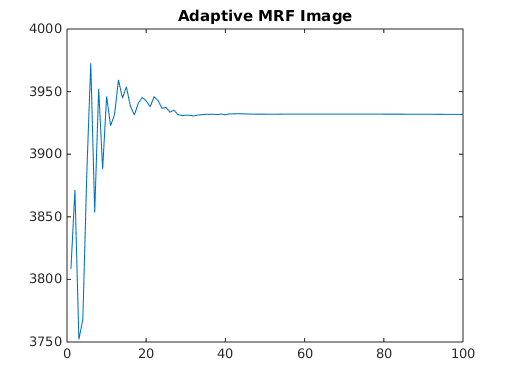
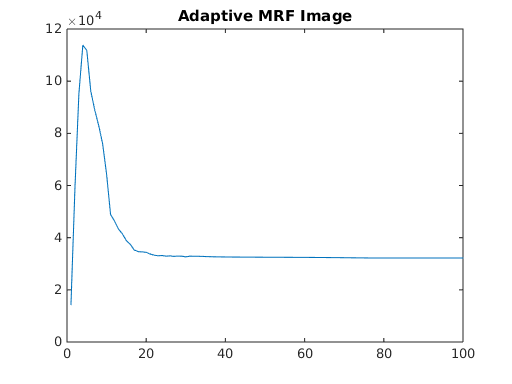
Add q2 report final

diff --git a/120050087_120050041_13D070003_assignment3/2/report/mainScript.html b/120050087_120050041_13D070003_assignment3/2/report/mainScript.html
@@ -75,8 +75,8 @@ min_rrmse = 10000000;
 best_estimate = 0;
 figure; imshow(abs(ifft2(imageKspaceData))); title(<span class="string">'Inverse Fourier-kspaceData'</span>);
 </pre><img vspace="5" hspace="5" src="mainScript_01.png" alt=""> <h2>Quadratic Prior 1<a name="2"></a></h2><pre class="codeinput">algorithm = 1;
-best_alpha = 0.0001;
-best_gamma = 0.00;
+best_alpha = 0.0002;
+best_gamma = 0;
 [estimate, series] = applyGradientDescent(imageKspaceData, algorithm, best_alpha ,best_gamma, imageKspaceMask);
 display(<span class="string">'Quadratic Prior'</span>);
 display(strcat( [<span class="string">'Best alpha :'</span> num2str(best_alpha)] ));
@@ -84,11 +84,11 @@ display(strcat( [<span class="string">'Best gamma :'</span> num2str(best_gamma)]
 figure; imshow(abs(estimate)); title(<span class="string">'Quadratic Prior Reconstructed Image'</span>);
 figure; plot(1:100, series); title(<span class="string">'Quadratic MRF Image'</span>);
 </pre><pre class="codeoutput">Quadratic Prior
-Best alpha :0.0001
+Best alpha :0.0002
 Best gamma :0
 </pre><img vspace="5" hspace="5" src="mainScript_02.png" alt=""> <img vspace="5" hspace="5" src="mainScript_03.png" alt=""> <h2>Huber Prior 2<a name="3"></a></h2><pre class="codeinput">algorithm = 2;
-best_alpha = 0.000001;
-best_gamma = 0.012;
+best_alpha = 0.00001;
+best_gamma = 0.015;
 [estimate, series] = applyGradientDescent(imageKspaceData, algorithm, best_alpha , best_gamma , imageKspaceMask);
 display(<span class="string">'Huber Prior'</span>);
 display(strcat( [<span class="string">'Best alpha :'</span> num2str(best_alpha)] ));
@@ -96,11 +96,11 @@ display(strcat( [<span class="string">'Best gamma:'</span> num2str(best_gamma)] 
 figure; imshow(abs(estimate)); title(<span class="string">'Huber Prior Reconstructed Image'</span>);
 figure; plot(1:100, series); title(<span class="string">'Huber MRF Image'</span>);
 </pre><pre class="codeoutput">Huber Prior
-Best alpha :1e-06
-Best gamma:0.012
+Best alpha :1e-05
+Best gamma:0.015
 </pre><img vspace="5" hspace="5" src="mainScript_04.png" alt=""> <img vspace="5" hspace="5" src="mainScript_05.png" alt=""> <h2>Adaptive Prior 3<a name="4"></a></h2><pre class="codeinput">algorithm = 3;
 best_alpha = 0.00001;
-best_gamma = 0.09;
+best_gamma = 0.08;
 [estimate, series] = applyGradientDescent(imageKspaceData, algorithm, best_alpha , best_gamma , imageKspaceMask);
 display(<span class="string">'Adaptive Prior'</span>);
 display(strcat( [<span class="string">'Best alpha :'</span> num2str(best_alpha)] ));
@@ -109,7 +109,7 @@ figure; imshow(abs(estimate)); title(<span class="string">'Adaptive Prior Recons
 figure; plot(1:100, series); title(<span class="string">'Adaptive MRF Image'</span>);
 </pre><pre class="codeoutput">Adaptive Prior
 Best alpha :1e-05
-Best gamma:0.09
+Best gamma:0.08
 </pre><img vspace="5" hspace="5" src="mainScript_06.png" alt=""> <img vspace="5" hspace="5" src="mainScript_07.png" alt=""> <p class="footer"><br><a href="http://www.mathworks.com/products/matlab/">Published with MATLAB&reg; R2014b</a><br></p></div><!--
 ##### SOURCE BEGIN #####
 addpath 'mrf';
@@ -123,8 +123,8 @@ figure; imshow(abs(ifft2(imageKspaceData))); title('Inverse Fourier-kspaceData')
 
 %% Quadratic Prior 1
 algorithm = 1;
-best_alpha = 0.0001;
-best_gamma = 0.00;
+best_alpha = 0.0002;
+best_gamma = 0;
 [estimate, series] = applyGradientDescent(imageKspaceData, algorithm, best_alpha ,best_gamma, imageKspaceMask);
 display('Quadratic Prior');
 display(strcat( ['Best alpha :' num2str(best_alpha)] )); 
@@ -134,8 +134,8 @@ figure; plot(1:100, series); title('Quadratic MRF Image');
 
 %% Huber Prior 2 
 algorithm = 2;
-best_alpha = 0.000001;
-best_gamma = 0.012;
+best_alpha = 0.00001;
+best_gamma = 0.015;
 [estimate, series] = applyGradientDescent(imageKspaceData, algorithm, best_alpha , best_gamma , imageKspaceMask);
 display('Huber Prior');
 display(strcat( ['Best alpha :' num2str(best_alpha)] )); 
@@ -146,7 +146,7 @@ figure; plot(1:100, series); title('Huber MRF Image');
 %% Adaptive Prior 3
 algorithm = 3;
 best_alpha = 0.00001;
-best_gamma = 0.09;
+best_gamma = 0.08;
 [estimate, series] = applyGradientDescent(imageKspaceData, algorithm, best_alpha , best_gamma , imageKspaceMask);
 display('Adaptive Prior');
 display(strcat( ['Best alpha :' num2str(best_alpha)] )); 

diff --git a/120050087_120050041_13D070003_assignment3/2/code/mainScript.m b/120050087_120050041_13D070003_assignment3/2/code/mainScript.m
@@ -9,8 +9,8 @@ figure; imshow(abs(ifft2(imageKspaceData))); title('Inverse Fourier-kspaceData')
 
 %% Quadratic Prior 1
 algorithm = 1;
-best_alpha = 0.0001;
-best_gamma = 0.00;
+best_alpha = 0.0002;
+best_gamma = 0;
 [estimate, series] = applyGradientDescent(imageKspaceData, algorithm, best_alpha ,best_gamma, imageKspaceMask);
 display('Quadratic Prior');
 display(strcat( ['Best alpha :' num2str(best_alpha)] )); 
@@ -20,8 +20,8 @@ figure; plot(1:100, series); title('Quadratic MRF Image');
 
 %% Huber Prior 2 
 algorithm = 2;
-best_alpha = 0.000001;
-best_gamma = 0.012;
+best_alpha = 0.00001;
+best_gamma = 0.015;
 [estimate, series] = applyGradientDescent(imageKspaceData, algorithm, best_alpha , best_gamma , imageKspaceMask);
 display('Huber Prior');
 display(strcat( ['Best alpha :' num2str(best_alpha)] )); 
@@ -32,7 +32,7 @@ figure; plot(1:100, series); title('Huber MRF Image');
 %% Adaptive Prior 3
 algorithm = 3;
 best_alpha = 0.00001;
-best_gamma = 0.09;
+best_gamma = 0.08;
 [estimate, series] = applyGradientDescent(imageKspaceData, algorithm, best_alpha , best_gamma , imageKspaceMask);
 display('Adaptive Prior');
 display(strcat( ['Best alpha :' num2str(best_alpha)] )); 
